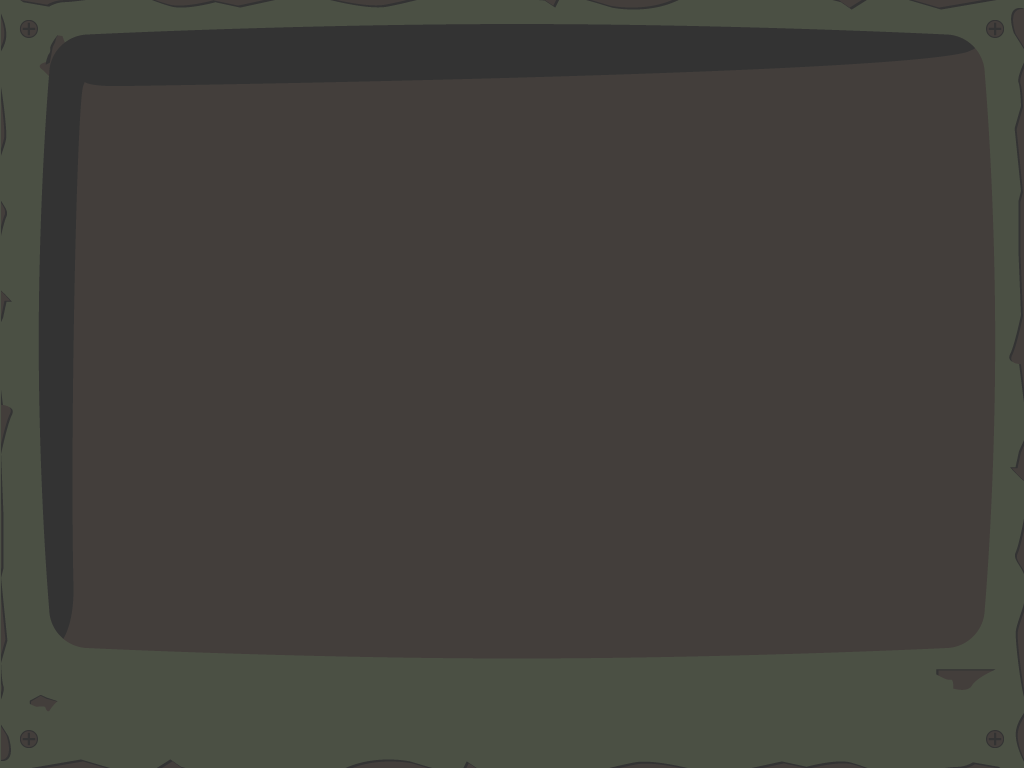
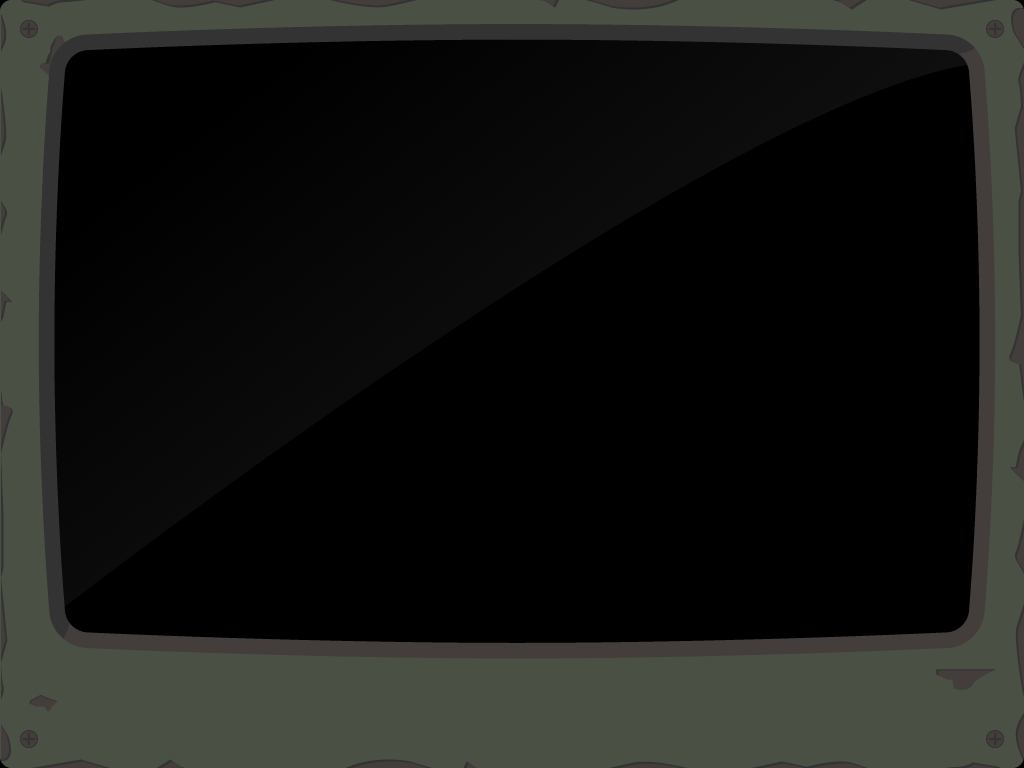
updated html

diff --git a/html-template/index.template.html b/html-template/index.template.html
@@ -1,105 +1,31 @@
-<!DOCTYPE html PUBLIC "-//W3C//DTD XHTML 1.0 Transitional//EN" "http://www.w3.org/TR/xhtml1/DTD/xhtml1-transitional.dtd">
-<!-- saved from url=(0014)about:internet -->
-<html xmlns="http://www.w3.org/1999/xhtml" lang="en" xml:lang="en">	
-    <!-- 
-    Smart developers always View Source. 
-    
-    This application was built using Adobe Flex, an open source framework
-    for building rich Internet applications that get delivered via the
-    Flash Player or to desktops via Adobe AIR. 
-    
-    Learn more about Flex at http://flex.org 
-    // -->
-    <head>
-        <title>${title}</title>         
-        <meta http-equiv="Content-Type" content="text/html; charset=utf-8" />
-		<!-- Include CSS to eliminate any default margins/padding and set the height of the html element and 
-		     the body element to 100%, because Firefox, or any Gecko based browser, interprets percentage as 
-			 the percentage of the height of its parent container, which has to be set explicitly.  Initially, 
-			 don't display flashContent div so it won't show if JavaScript disabled.
-		-->
-        <style type="text/css" media="screen"> 
-			html, body	{ height:100%; }
-			body { margin:0; padding:0; overflow:auto; text-align:center; 
-			       background-color: ${bgcolor}; }   
-			#flashContent { display:none; }
-        </style>
-		
-		<!-- Enable Browser History by replacing useBrowserHistory tokens with two hyphens -->
-        <!-- BEGIN Browser History required section ${useBrowserHistory}>
-        <link rel="stylesheet" type="text/css" href="history/history.css" />
-        <script type="text/javascript" src="history/history.js"></script>
-        <!${useBrowserHistory} END Browser History required section -->  
-		    
-        <script type="text/javascript" src="swfobject.js"></script>
-        <script type="text/javascript">
-            <!-- For version detection, set to min. required Flash Player version, or 0 (or 0.0.0), for no version detection. --> 
-            var swfVersionStr = "${version_major}.${version_minor}.${version_revision}";
-            <!-- To use express install, set to playerProductInstall.swf, otherwise the empty string. -->
-            var xiSwfUrlStr = "${expressInstallSwf}";
-            var flashvars = {};
-            var params = {};
-            params.quality = "high";
-            params.bgcolor = "${bgcolor}";
-            params.allowscriptaccess = "sameDomain";
-            params.allowfullscreen = "true";
-            var attributes = {};
-            attributes.id = "${application}";
-            attributes.name = "${application}";
-            attributes.align = "middle";
-            swfobject.embedSWF(
-                "${swf}.swf", "flashContent", 
-                "${width}", "${height}", 
-                swfVersionStr, xiSwfUrlStr, 
-                flashvars, params, attributes);
-			<!-- JavaScript enabled so display the flashContent div in case it is not replaced with a swf object. -->
-			swfobject.createCSS("#flashContent", "display:block;text-align:left;");
-        </script>
-    </head>
-    <body>
-        <!-- SWFObject's dynamic embed method replaces this alternative HTML content with Flash content when enough 
-			 JavaScript and Flash plug-in support is available. The div is initially hidden so that it doesn't show
-			 when JavaScript is disabled.
-		-->
-        <div id="flashContent">
-        	<p>
-	        	To view this page ensure that Adobe Flash Player version 
-				${version_major}.${version_minor}.${version_revision} or greater is installed. 
-			</p>
-			<script type="text/javascript"> 
-				var pageHost = ((document.location.protocol == "https:") ? "https://" :	"http://"); 
-				document.write("<a href='http://www.adobe.com/go/getflashplayer'><img src='" 
-								+ pageHost + "www.adobe.com/images/shared/download_buttons/get_flash_player.gif' alt='Get Adobe Flash player' /></a>" ); 
-			</script> 
-        </div>
-	   	
-       	<noscript>
-            <object classid="clsid:D27CDB6E-AE6D-11cf-96B8-444553540000" width="${width}" height="${height}" id="${application}">
-                <param name="movie" value="${swf}.swf" />
-                <param name="quality" value="high" />
-                <param name="bgcolor" value="${bgcolor}" />
-                <param name="allowScriptAccess" value="sameDomain" />
-                <param name="allowFullScreen" value="true" />
-                <!--[if !IE]>-->
-                <object type="application/x-shockwave-flash" data="${swf}.swf" width="${width}" height="${height}">
-                    <param name="quality" value="high" />
-                    <param name="bgcolor" value="${bgcolor}" />
-                    <param name="allowScriptAccess" value="sameDomain" />
-                    <param name="allowFullScreen" value="true" />
-                <!--<![endif]-->
-                <!--[if gte IE 6]>-->
-                	<p> 
-                		Either scripts and active content are not permitted to run or Adobe Flash Player version
-                		${version_major}.${version_minor}.${version_revision} or greater is not installed.
-                	</p>
-                <!--<![endif]-->
-                    <a href="http://www.adobe.com/go/getflashplayer">
-                        <img src="http://www.adobe.com/images/shared/download_buttons/get_flash_player.gif" alt="Get Adobe Flash Player" />
-                    </a>
-                <!--[if !IE]>-->
-                </object>
-                <!--<![endif]-->
-            </object>
-	    </noscript>		
-   </body>
+<!DOCTYPE html PUBLIC "-//W3C//DTD XHTML 1.0 Strict//EN" "http://www.w3.org/TR/xhtml1/DTD/xhtml1-strict.dtd">
+<html xmlns="http://www.w3.org/1999/xhtml" lang="en" xml:lang="en">
+	<head>
+		<title></title>
+		<meta http-equiv="Content-Type" content="text/html; charset=iso-8859-1" />
+		<script type="text/javascript" src="js/swfobject.js"></script>
+		<script type="text/javascript">
+			swfobject.registerObject("Game", "10.0.0");
+		</script>
+		<link rel="stylesheet" type="text/css" media="all" href="style.css"/>
+	</head>
+	<body>
+		<div id="header">
+			<img class='center' src='img/header.png'/>
+		</div>
+		<div>
+			<object class='center' classid="clsid:D27CDB6E-AE6D-11cf-96B8-444553540000" width="1024" height="768" id="Game">
+				<param name="movie" value="ExtInc.swf" />
+				<!--[if !IE]>-->
+				<object type="application/x-shockwave-flash" data="ExtInc.swf" width="1024" height="768">
+				<!--<![endif]-->
+					<a href="http://www.adobe.com/go/getflashplayer">
+						<img src="http://www.adobe.com/images/shared/download_buttons/get_flash_player.gif" alt="Get Adobe Flash player" />
+					</a>
+				<!--[if !IE]>-->
+				</object>
+				<!--<![endif]-->
+			</object>
+		</div>
+	</body>
 </html>

diff --git a/html-template/style.css b/html-template/style.css
@@ -1,0 +1,12 @@
+body {
+	background: #000000;
+}
+
+.center {
+	margin: 0 auto;
+	display: block;
+}
+
+#header {
+	margin-bottom: 10px;
+}
